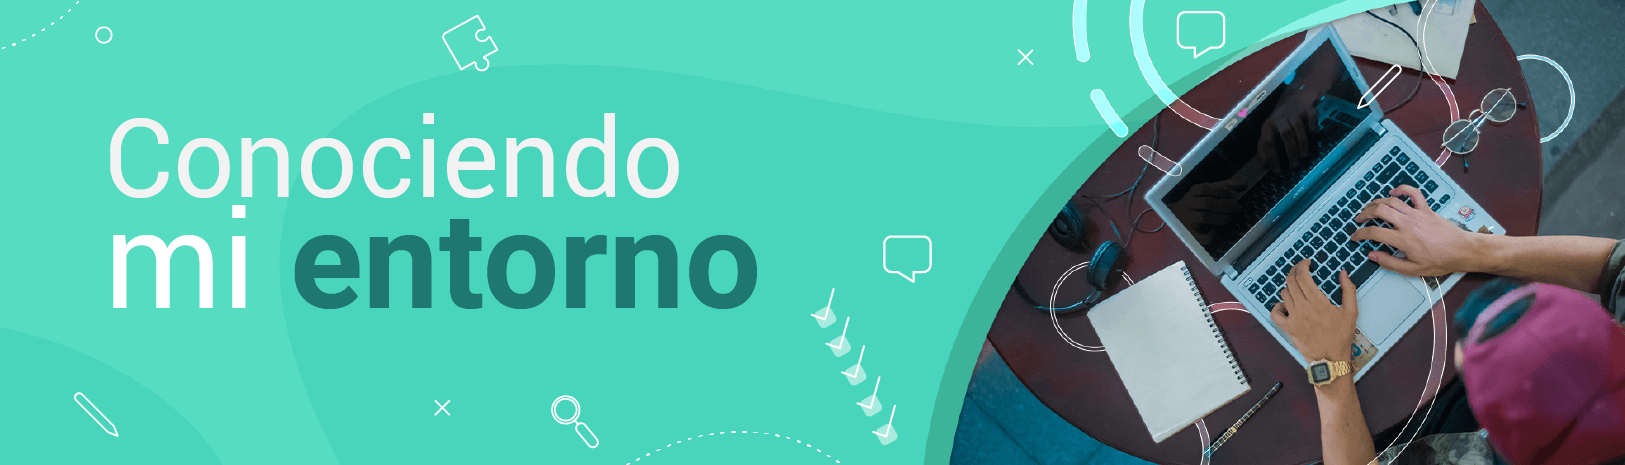
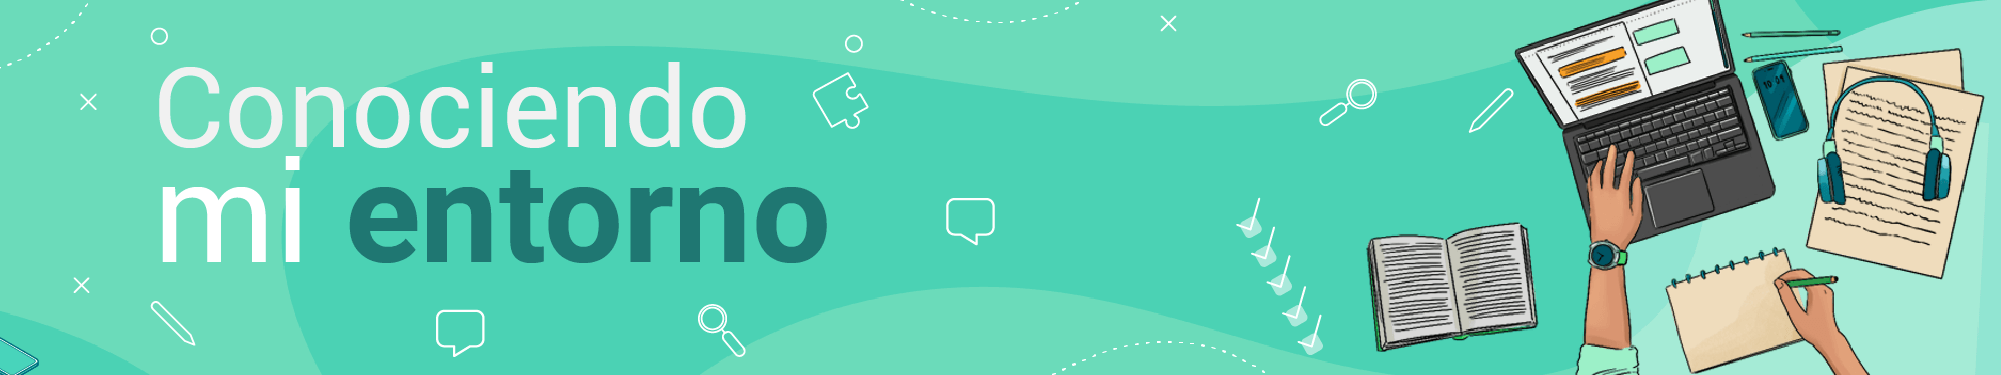
Nuevo cabezote

diff --git a/assets/styles/style.css b/assets/styles/style.css
@@ -1,13 +1,15 @@
 @import url('https://fonts.googleapis.com/css2?family=Roboto:wght@300;500&display=swap');
 :root {
-    --prymary-color: #56ddc1;
+    /* --prymary-color: #56ddc1; */
+    --prymary-color: #4bd2b4;
     --secondary-color: #1f7772;
     --white-color: #f2f2f2;
 }
 
 body {
     /* background: repeating-linear-gradient(-47.5deg, #f4f5f5 0px, #f4f5f5 7px, #eceef0 7px, #eceef0 11px); */
-    background: repeating-linear-gradient(-47.5deg, #F7FFF2 0px, #F7FFF2 2px, #ffffff 2px, #ffffff 7px);
+    /* background: repeating-linear-gradient(-47.5deg, #F7FFF2 0px, #F7FFF2 2px, #ffffff 2px, #ffffff 7px); */
+    background-color: var(--white-color);
     padding: 0;
     margin: 0;
     font-family: 'Roboto', sans-serif;
